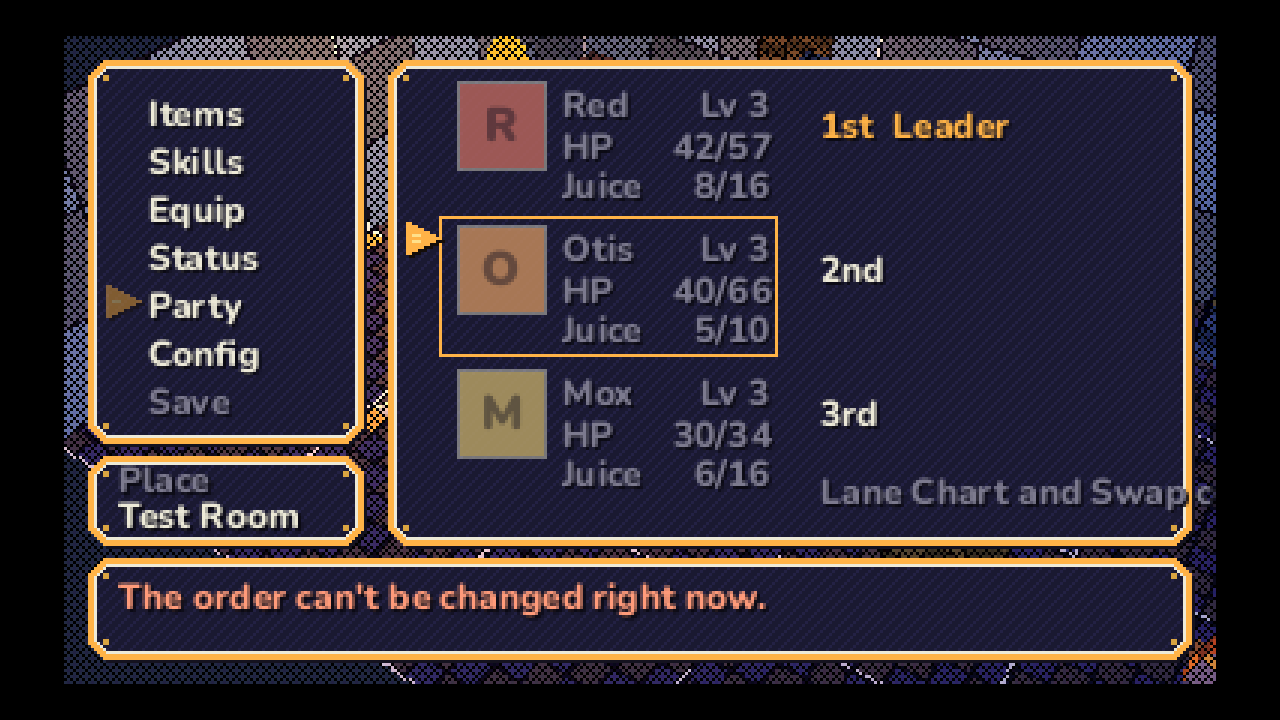
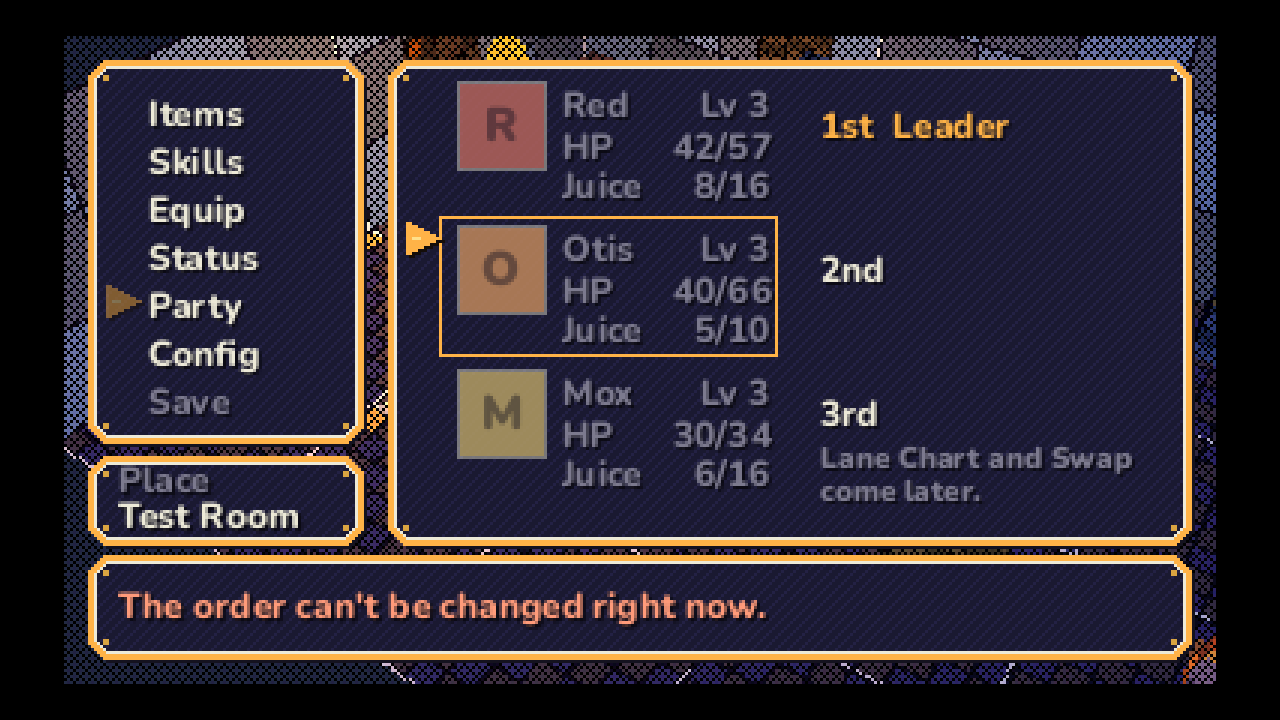
Fix B5: save tests tear down their UI and assert the busy group is clean.
Claude-Session: https://claude.ai/code/session_012jSmZ4BPCmd8jMXHsVXFG6

Changed region(s): [[0.0625, 0.7639, 0.9375, 0.8861], [0.625, 0.6111, 0.9688, 0.7028], [0.3125, 0.0306, 0.375, 0.0917]]

diff --git a/docs/m3_plan.md b/docs/m3_plan.md
@@ -129,3 +129,17 @@ Input either `screen.listen_input = true` (it must live on the UiStage) or forwa
 **Rooms:** `scenes/rooms/test_a.tscn` and `test_b.tscn` (two-room graybox: doors, a locked vault door and its key crate, pickups, crates, a 2-unit climb, a fence hop, a patrolling grunt and a stationary story guard), generated by `scripts/tools/make_test_rooms.py`. The old `psx_test_room` got a door (left wall) into Test Yard A and back (`room_id = "test_room"`, `party_follows = false`).
 
 **Tests:** `unit/test_encounter_rules`, `unit/test_world_data`, `integration/test_room_props`, `test_traversal`, `test_party_follow`, `test_map_enemy`, `test_field_battle_flow`, `test_scene_router`, helper `integration/exploration_kit.gd`. Screenshots: `docs/screenshots/m3_follow.png`, `m3_field_enemy.png` (`tests/visual/capture_m3_*.gd`).
+
+### UI Programmer A (M3-7 field menu, M3-8 shops): what exists and what it needs from others
+
+**Field menu (`scripts/ui/field_menu.gd` + `scripts/ui/menu/`):** pages Items (tabs Items / Gear / Key, use and pick who, greyed rows with a reason), Skills (field heals), Equip (stat arrows, owner lock), Status, Party, Config (the shared `ConfigScreen`, embedded), and a Save row. `FieldMenu` is the shell (windows, main list, info window, input); each page is a `MenuPage` class (`page_items.gd`, ...). `GearBridge` is the one door the menus use to reach `Bag`, `Equipment`, `StatCalc`, `ShopLogic`, `ItemData`, `Progression` and GameState, and turns every "why not" into a sentence from `data/text/field_menu.json` "reasons". `MemberColumn` is the shared party-rows widget (placeholder initial heads). Layout: `data/ui/field_menu.json`; strings: `data/text/field_menu.json`. The main list is now Items, Skills, Equip, Status, Party, Config, Save (no Close row; cancel or the menu button closes).
+
+**Save row:** greyed with "Find a save lamp to save." unless Red is within `save_spot_radius` (2.2 m) of a node in group `save_lamp` (SaveLamp joins it) or `save_spot`. At a lamp it closes the menu, waits for the menu to release Red, then calls `SaveManager.open_lamp_menu(false, player)` (GP-B's save screen). The same check makes the Camp Stove usable (Bag context "lamp"). `FieldMenu.save_spot_override` (true / false / null) is for tests and scripted moments.
+
+**Shops (`scripts/ui/shop/`):** `ShopMenu` (Buy / Sell / Leave, quantity picker, owned count, per-fighter arrows), `ShopCounter` (an `Interactable` with `shop_id`; acts through the `handler` hook; builds a placeholder counter), `ShopData` (reads and validates `data/shops/*.json`). Stock lists item ids only; prices come from `items.json` / `equipment.json`. To put a shop in a room (M3-4): add a Node3D with `scripts/ui/shop/shop_counter.gd`, set `shop_id` to a file name in `data/shops/` (`test_general`, `test_gear` exist and sit in the test room). Layout: `data/ui/shop_ui.json`; strings: `data/text/shop.json`.
+
+**Needs from others (nothing was edited in their files):**
+1. **GP-B, `GameState`:** `set_party_order(ids: Array[String]) -> bool` (same members, new order; saved by `to_dict` already). Until it exists the Party page greys everything with "The order can't be changed right now." Tests use `tests/fixtures/ui/state_with_order.gd`, a subclass that adds it.
+2. **BP / GP-B:** the starting numbers in `data/party/party.json` (Red 42/42 HP, 8/12 Juice, ...) disagree with `StatCalc` (growth table + gear: Red 57 HP, 16 Juice at level 3). The Status page bars read GameState, the Equip stat list reads StatCalc, so they differ until the first equip or booster calls `StatCalc.sync_maximums`. Suggest `GameState.reset()` (or a new game) syncs every member once and fills them.
+3. **BP (optional):** `Bag.item_targets(item_id, state) -> Array[String]` (who the item would help) so `GearBridge.benefits()` can stop mirroring `Bag._apply_to_member`'s rules.
+4. **Integrator:** `tests/integration/test_battle_hud_config_page.gd` was edited (the Config page is now the embedded `ConfigScreen`, so it reaches rows by id through `PageConfig.get_screen()`). The old `FieldMenu` Close row, `save_window` layout key and the page's own Config rows are gone.

diff --git a/docs/art_requests.md b/docs/art_requests.md
@@ -68,3 +68,5 @@
 | 51 | Battle HUD: party panel status chips and bar caps (placeholder chips are a colored tile with one letter; bars are plain rectangles) | Status icons beside each party member's name (Burnt Toast, Noise Ticket, Wobbly, Down), HP and Juice bar end caps | Chips 11×12 (or reuse the 16×16 status icons in row 35); bar caps 2×8 | — | Chip colors in game/data/ui/battle_ui.json "statuses"; HP bar coral #FF7A59, Juice bar lime #9BE35A. | .png | game/art/final/ui/battle/chips/ | P5 | Waiting on Ross (placeholder is code-drawn; row 35 covers the icons) |
 | 52 | Portrait expression files: exact names and crops (the contract for rows 7 to 12; the UI Programmer's placeholders are code-drawn initials heads) | Speech-bubble portrait slot (the 64×64 face area shown at half size, 32×32), the plain text box slot (the whole portrait at half size, 48×48), and the field-menu party tiles | **96×96** each (the approved style guide size; rows 7 to 12 say ~128×128, please use 96×96) | — | One PNG per expression, face in the middle, eyes on the same line in every expression. The bubble shows the square from (16,8) to (80,72), so keep eyes and mouth inside it. Ids must match game/data/ui/portraits.json: **red** grin, determined, surprised, worried, smug · **otis** calm, apologetic, stern, worried, laughing · **mox** boasting, panicking, focused, sheepish, proud · **kasp** smug, shouting, flustered · **old Zero** neutral, happy, upset. Crowd NPCs get none. | .png | game/art/final/portraits/<character>/ptr_<character>_<face>.png (old Zero's set goes in npc_a/ as ptr_npc_a_<face>.png until the Writer names the NPC) | P2 | Waiting on Ross (placeholders live; a PNG dropped at the path is used with no code change) |
 | 53 | Title name-entry and Config screen polish (optional; both are code-drawn on the shared window and work without it) | Title screen New Game name window and the Config screen (volume bars, tap-along test) | Volume bar segment about 4×6 (lit and dim); tap-along flash disc about 44×44 (dim and lit frames, with the "ding" sound landing on the lit frame); letter-grid highlight tile 20×16 | — | Use the amber / chalk / Dusk palette from the style guide; segments chunky, flash disc a warm lamp-yellow when lit. | .png | game/art/final/ui/config/ | P5 | Waiting on Ross (placeholders live) |
+| 54 | Field menu and shop glyphs (UI Programmer A's placeholders are drawn from code): stat-change arrows, "can't wear" mark, credits coin, tab underline | Equip stat comparison (green up / coral down arrows), the shop's per-fighter arrows ("better", "worse", "same", "can't wear"), the Credits line in the field menu and shops | Arrows 9×5 (up and down, 2 colors each as one white sheet recolored by code); same-as mark 9×3; can't-wear mark 9×9; credits coin 9×9 | — | Chunky, 1px Ink shadow down and right, same look as the menu cursor. Up #9BE35A, down #FF7A59 (code recolors one white sheet). | .png sheet | game/art/final/ui/menu_glyphs/ | P5 | Waiting on Ross (placeholders live) |
+| 55 | Shop counter props (2 variants) and shop signs | The test-room shop counters now, and the Harrow general store and gear shop (M3-4); the shopkeeper (row 16) stands behind it | Counter about 1.6 wide, 0.9 tall, 0.7 deep; 64×64 or 128×128 texture; sign boards about 1.4 × 0.4 | ~150–300 tris per counter | General store: warm amber sign, cans and a sleepy cat on the counter. Gear shop: blue-gray sign, a few weapons hung on the wall behind. Recolor-friendly. The placeholder is a brown box with a Label3D sign, built from code in `scripts/ui/shop/shop_counter.gd`. | .glb + .png | game/art/final/props/shop_counter/ | P2 | Waiting on Ross (placeholders live) |

diff --git a/docs/bug_log.md b/docs/bug_log.md
@@ -9,4 +9,4 @@
 | B2 | Red's animation-state test failed once under load, passed alone | minor | Run the full suite while other agents run Godot on the same machine | Always pass | test_movement_states_map_to_clips_with_the_real_model failed once in a full run; passed with --only=red_shiba | game/tests/integration/test_red_shiba.gd | Audio Designer (seen), Technical Artist (seen earlier) | Fixed (Gameplay Programmer): the test switches Red's own physics off after the floor registers and drives step() by hand, so it counts exact steps; awaiting QA re-check |
 | B3 | Real-clock battle test failed intermittently under load | minor | Run the full suite while other agents run Godot on the same machine | Always pass | test_battle_real_clock failed once in a full run (real wall-clock timing) | game/tests/integration/test_battle_real_clock.gd | Technical Artist (seen) | Fixed (Battle Programmer): the press is now stamped relative to the controller's own t0 (no sleeping, no frame pacing), so the rating is exact; wall-clock checks are only loose bounds (at least 600 ms, under 30 s). Ran 6 times alone and once in a full suite run with other Godot processes: pass every time; awaiting QA re-check |
 | B4 | Speech bubble input test failed once under load | minor | Full suite while other agents run Godot and edit UI | Always pass | test_confirm_press_through_input_advances_when_listening failed once | game/tests/integration/test_speech_bubble.gd | Battle Programmer (seen) | Passing: 4 quiet full runs in a row (incl. the build run); only seen while other agents were editing UI and running Godot. Monitoring |
-| B5 | Save tests leave stale nodes in the UI 'busy' group | minor | Run test_save_flow / test_save_lamp, then a test that needs interact | Each test cleans up its UI | Two nodes stay in the busy group and block Red's interact in the next test (worked around in ExplorationKit) | game/tests/integration/test_save_flow.gd, test_save_lamp.gd | Gameplay Programmer A | Open (assign to Gameplay Programmer B) |
+| B5 | Save tests leave stale nodes in the UI 'busy' group | minor | Run test_save_flow / test_save_lamp, then a test that needs interact | Each test cleans up its UI | Two nodes stay in the busy group and block Red's interact in the next test (worked around in ExplorationKit) | game/tests/integration/test_save_flow.gd, test_save_lamp.gd | Gameplay Programmer A | Fixed (Gameplay Programmer B): the prompts opened by SavePrompt.open() went onto an older shared UiStage that outlived the test, so nothing freed them. New game/tests/integration/save_test_kit.gd (SaveTestKit): both test files record the busy group in before_each and in after_each free what they own, take down any SavePrompt/SaveLamp left on a shared stage, and assert nothing new is in the busy group. test_save_zz_probe.gd still checks no save screen is left after the save tests. Full suite: 0 failures; awaiting QA re-check |
